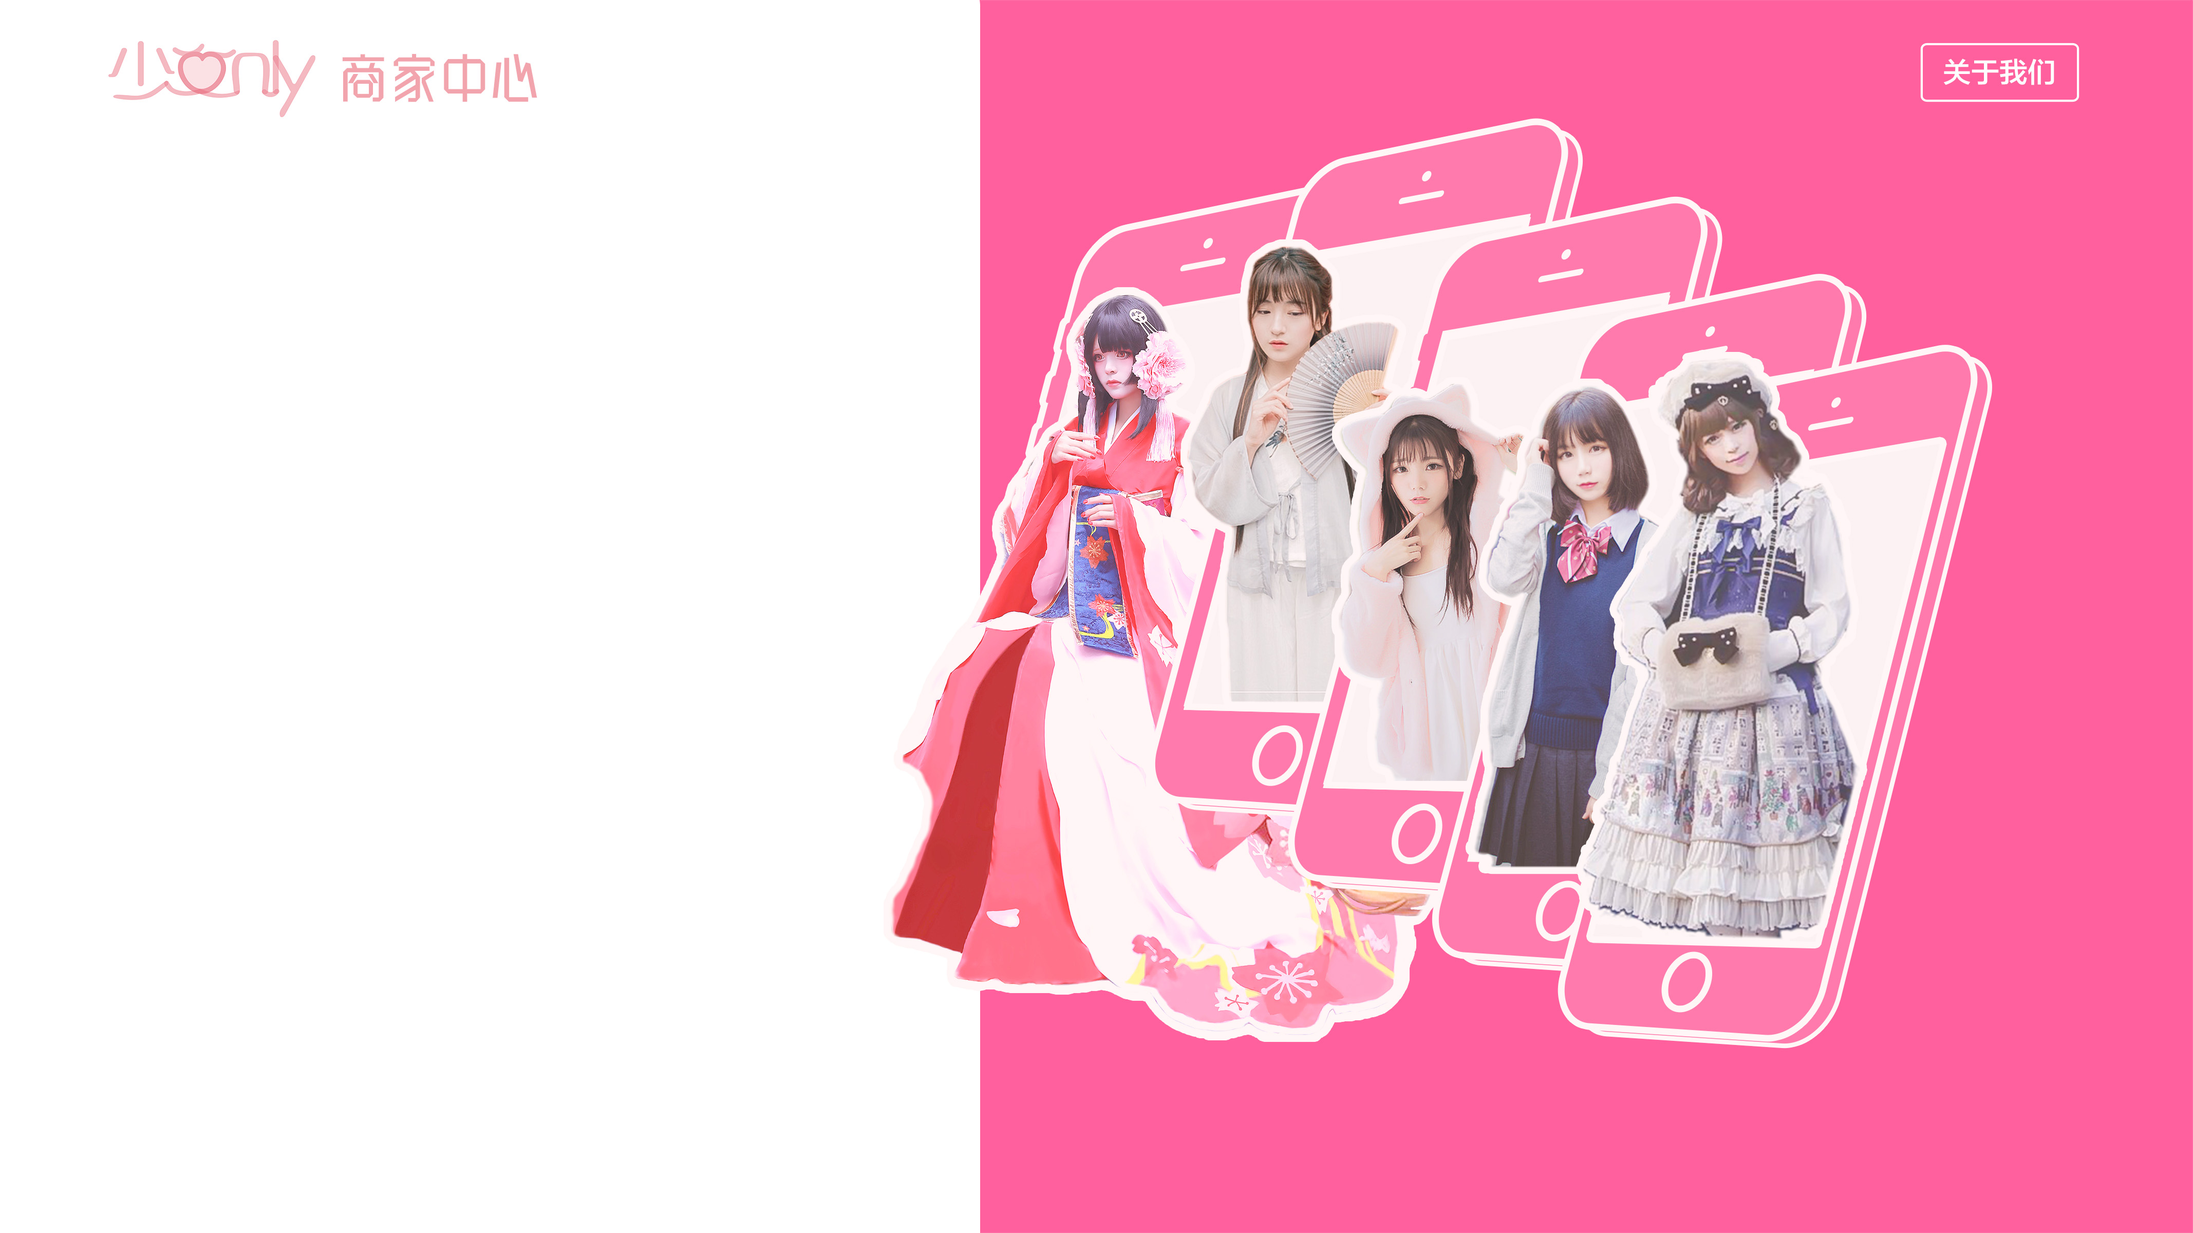
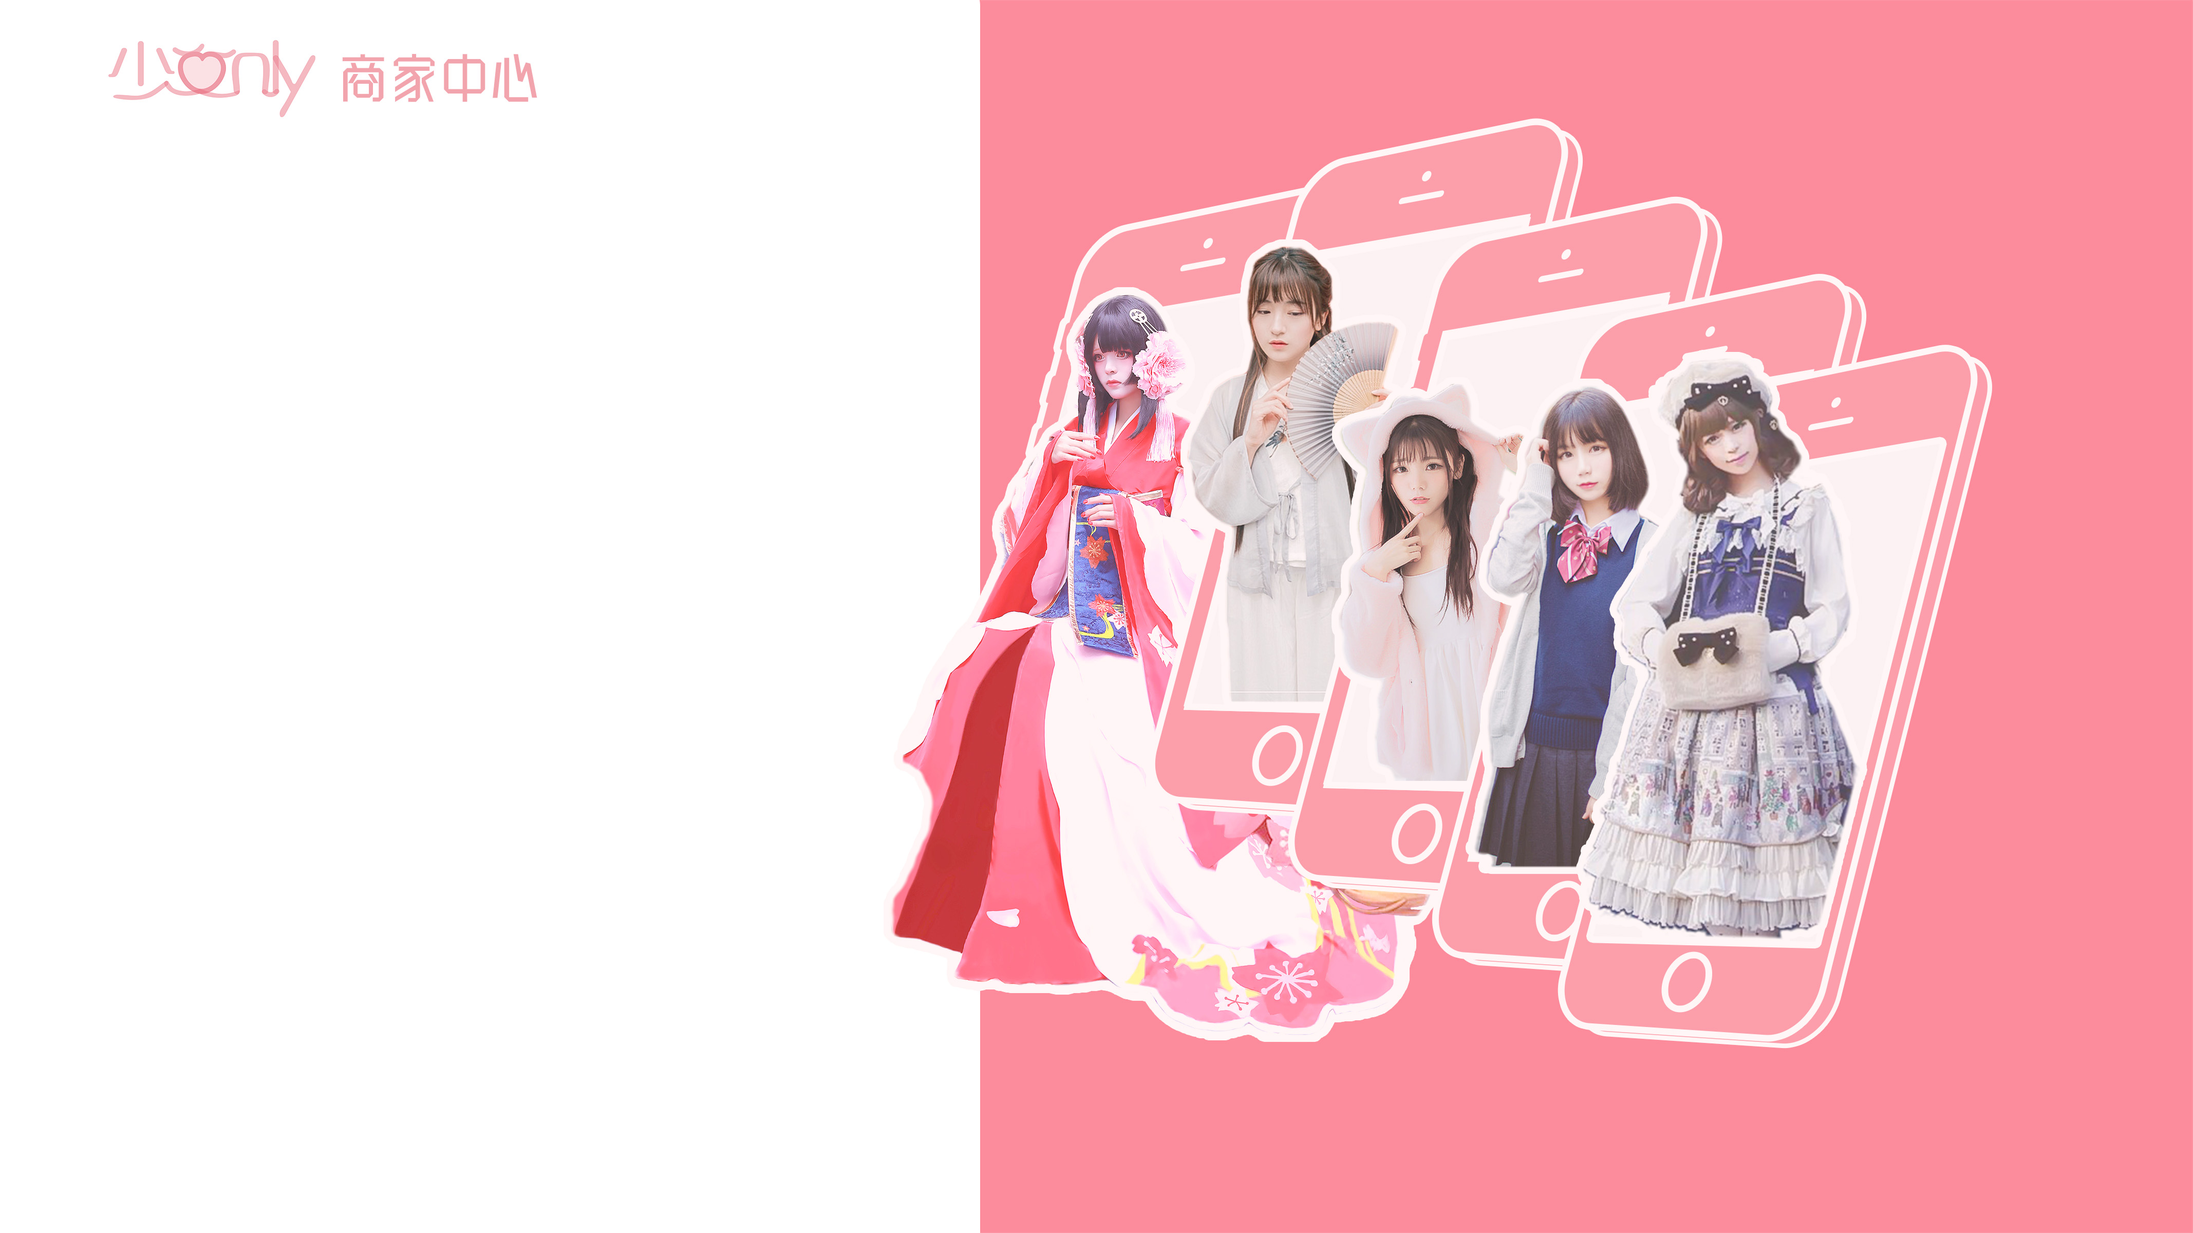
sweetalert和登录注销对接

diff --git a/src/js/welcome.js b/src/js/welcome.js
@@ -38,11 +38,52 @@ function login() {
                  username : username,
                  password_hash: password_hash,
              },
-             success: function(){
-             	window.location.href = "index.html";
+             success: function(resp){
+             	if (resp.message=='success') {
+             		swal({
+                        title:'登录成功！',
+                        type: 'success',
+                        timer:2000,
+                        background:'#fff',
+                        confirmButtonColor: '#fc8c9c',
+                    });
+             		setTimeout("window.location = 'index.html'",2000); 
+             	}
+             	else if (resp.message=='参数不合法') {
+                    swal({
+                        text:'输入不正确，请重新输入!',
+                        title:'登录失败',
+                        type: 'warning',
+                        timer:2000,
+                        background:'#fff',
+                        confirmButtonColor: '#fc8c9c',
+                    });
+             	}
+             	else if (resp.message=='密码错误') {
+                    swal({
+                        text:'密码错误!',
+                        title:'登录失败',
+                        type: 'error',
+                        timer:2000,
+                        background:'#fff',
+                        confirmButtonColor: '#fc8c9c',
+                    });
+             	}
+             	else if (resp.message=='用户名不存在') {
+             		swal({
+                        text:'用户名不存在!',
+                        title:'登录失败',
+                        type: 'warning',
+                        timer:2000,
+                        background:'#fff',
+                        confirmButtonColor: '#fc8c9c',
+                    });
+             	}
              },
          });
 	}); 
 
 	
 }
+
+

diff --git a/src/index.html b/src/index.html
@@ -1,3 +1,4 @@
+
 <!DOCTYPE html>
 <html lang="zh-CN">
     <head>
@@ -8,6 +9,8 @@
         <link href="font-awesome-4.7.0/css/font-awesome.min.css" rel="stylesheet">   
         <!-- Bootstrap -->
         <link href="Bootstrap/css/bootstrap.min.css" rel="stylesheet">
+        <!-- SweetAlert -->
+        <link rel="stylesheet" type="text/css" href="SweetAlert/dist/sweetalert2.min.css">
         <!--自己的样式文件 -->
         <link href="css/demo.css" rel="stylesheet">
         <link href="css/index.css" rel="stylesheet">        
@@ -23,7 +26,7 @@
             <ul class="nav navbar-nav">
                 <li><a href="##"><span><img src="images/password.png" alt=""></span>
                     修改密码</a></li>
-                <li><a href="##"><span><img src="images/logoff.png" alt=""></span>
+                <li><a href="javascript:void(0)" onclick="logout();"><span><img src="images/logoff.png" alt=""></span>
                     退出登录</a></li>
             </ul>
         </div>
@@ -153,8 +156,15 @@
         <!-- 如果要使用Bootstrap的js插件，必须先调入jQuery -->
         <script src="http://libs.baidu.com/jquery/1.9.0/jquery.min.js"></script>
         <!-- 包括所有bootstrap的js插件或者可以根据需要使用的js插件调用　-->
-        <script src="http://maxcdn.bootstrapcdn.com/bootstrap/3.2.0/js/bootstrap.min.js"></script> 
+        <script src="http://maxcdn.bootstrapcdn.com/bootstrap/3.2.0/js/bootstrap.min.js"></script>
+        <!-- SweetAlert -->
+            <script src="SweetAlert/dist/sweetalert2.min.js"></script>
+            <!-- for IE support -->
+            <script src="SweetAlert/lib/es6-promise.min.js"></script>
+        <!-- SweetAlert -->
+        <script src="js/welcome.js"></script> 
         <!-- 自己的js -->
+        <script src="js/demo.js"></script>
         <script src="js/index.js"></script>
     </body>
 </html>

diff --git a/src/demo.html b/src/demo.html
@@ -8,6 +8,8 @@
         <link href="font-awesome-4.7.0/css/font-awesome.min.css" rel="stylesheet">   
         <!-- Bootstrap -->
         <link href="Bootstrap/css/bootstrap.min.css" rel="stylesheet">
+        <!-- SweetAlert -->
+        <link rel="stylesheet" type="text/css" href="SweetAlert/dist/sweetalert2.min.css">
         <!--自己的样式文件 -->
         <link href="css/demo.css" rel="stylesheet">        
         <!-- 以下两个插件用于在IE8以及以下版本浏览器支持HTML5元素和媒体查询，如果不需要用可以移除 -->
@@ -22,7 +24,7 @@
             <ul class="nav navbar-nav">
                 <li><a href="##"><span><img src="images/password.png" alt=""></span>
                     修改密码</a></li>
-                <li><a href="##"><span><img src="images/logoff.png" alt=""></span>
+                <li><a href="javascript:void(0)" onclick="logout();"><span><img src="images/logoff.png" alt=""></span>
                     退出登录</a></li>
             </ul>
         </div>
@@ -78,6 +80,14 @@
         <script src="http://libs.baidu.com/jquery/1.9.0/jquery.min.js"></script>
         <!-- 包括所有bootstrap的js插件或者可以根据需要使用的js插件调用　-->
         <script src="http://maxcdn.bootstrapcdn.com/bootstrap/3.2.0/js/bootstrap.min.js"></script>
+        <!-- SweetAlert -->
+            <script src="SweetAlert/dist/sweetalert2.min.js"></script>
+            <!-- for IE support -->
+            <script src="SweetAlert/lib/es6-promise.min.js"></script>
+        <!-- SweetAlert -->
+        <script src="js/welcome.js"></script>
+        <!-- 自己的js -->
+        <script src="js/demo.js"></script>
         <script src=""></script> 
     </body>
 </html>

diff --git a/src/onsale.html b/src/onsale.html
@@ -8,6 +8,8 @@
         <link href="font-awesome-4.7.0/css/font-awesome.min.css" rel="stylesheet">   
         <!-- Bootstrap -->
         <link href="Bootstrap/css/bootstrap.min.css" rel="stylesheet">
+        <!-- SweetAlert -->
+        <link rel="stylesheet" type="text/css" href="SweetAlert/dist/sweetalert2.min.css">
         <!--自己的样式文件 -->
         <link href="css/demo.css" rel="stylesheet">
         <link href="css/onsale.css" rel="stylesheet">        
@@ -23,7 +25,7 @@
             <ul class="nav navbar-nav">
                 <li><a href="##"><span><img src="images/password.png" alt=""></span>
                     修改密码</a></li>
-                <li><a href="##"><span><img src="images/logoff.png" alt=""></span>
+                <li><a href="javascript:void(0)" onclick="logout();"><span><img src="images/logoff.png" alt=""></span>
                     退出登录</a></li>
             </ul>
         </div>
@@ -256,6 +258,14 @@
         <script src="http://libs.baidu.com/jquery/1.9.0/jquery.min.js"></script>
         <!-- 包括所有bootstrap的js插件或者可以根据需要使用的js插件调用　-->
         <script src="http://maxcdn.bootstrapcdn.com/bootstrap/3.2.0/js/bootstrap.min.js"></script>
+        <!-- SweetAlert -->
+            <script src="SweetAlert/dist/sweetalert2.min.js"></script>
+            <!-- for IE support -->
+            <script src="SweetAlert/lib/es6-promise.min.js"></script>
+        <!-- SweetAlert -->
+        <script src="js/welcome.js"></script>
+        <!-- 自己的js -->
+        <script src="js/demo.js"></script>        
         <script src="js/onsale.js"></script>
     </body>
 </html>

diff --git a/src/sold.html b/src/sold.html
@@ -8,6 +8,8 @@
         <link href="font-awesome-4.7.0/css/font-awesome.min.css" rel="stylesheet">   
         <!-- Bootstrap -->
         <link href="Bootstrap/css/bootstrap.min.css" rel="stylesheet">
+        <!-- SweetAlert -->
+        <link rel="stylesheet" type="text/css" href="SweetAlert/dist/sweetalert2.min.css">
         <!--自己的样式文件 -->
         <link href="css/demo.css" rel="stylesheet">
         <link href="css/sold.css" rel="stylesheet">        
@@ -23,7 +25,7 @@
             <ul class="nav navbar-nav">
                 <li><a href="##"><span><img src="images/password.png" alt=""></span>
                     修改密码</a></li>
-                <li><a href="##"><span><img src="images/logoff.png" alt=""></span>
+                <li><a href="javascript:void(0)" onclick="logout();"><span><img src="images/logoff.png" alt=""></span>
                     退出登录</a></li>
             </ul>
         </div>
@@ -269,6 +271,14 @@
         <script src="http://libs.baidu.com/jquery/1.9.0/jquery.min.js"></script>
         <!-- 包括所有bootstrap的js插件或者可以根据需要使用的js插件调用　-->
         <script src="http://maxcdn.bootstrapcdn.com/bootstrap/3.2.0/js/bootstrap.min.js"></script>
+        <!-- SweetAlert -->
+            <script src="SweetAlert/dist/sweetalert2.min.js"></script>
+            <!-- for IE support -->
+            <script src="SweetAlert/lib/es6-promise.min.js"></script>
+        <!-- SweetAlert -->
+        <script src="js/welcome.js"></script>
+        <!-- 自己的js -->
+        <script src="js/demo.js"></script>       
         <script src="js/saled.js"></script> 
     </body>
 </html>

diff --git a/src/baseinfo.html b/src/baseinfo.html
@@ -8,6 +8,8 @@
         <link href="font-awesome-4.7.0/css/font-awesome.min.css" rel="stylesheet">   
         <!-- Bootstrap -->
         <link href="Bootstrap/css/bootstrap.min.css" rel="stylesheet">
+        <!-- SweetAlert -->
+        <link rel="stylesheet" type="text/css" href="SweetAlert/dist/sweetalert2.min.css">
         <!--自己的样式文件 -->
         <link href="css/demo.css" rel="stylesheet">      
         <link href="css/baseinfo.css" rel="stylesheet">   
@@ -23,7 +25,7 @@
             <ul class="nav navbar-nav">
                 <li><a href="##"><span><img src="images/password.png" alt=""></span>
                     修改密码</a></li>
-                <li><a href="##"><span><img src="images/logoff.png" alt=""></span>
+                <li><a href="javascript:void(0)" onclick="logout();"><span><img src="images/logoff.png" alt=""></span>
                     退出登录</a></li>
             </ul>
         </div>
@@ -97,6 +99,14 @@
         <script src="http://libs.baidu.com/jquery/1.9.0/jquery.min.js"></script>
         <!-- 包括所有bootstrap的js插件或者可以根据需要使用的js插件调用　-->
         <script src="http://maxcdn.bootstrapcdn.com/bootstrap/3.2.0/js/bootstrap.min.js"></script>
+        <!-- SweetAlert -->
+            <script src="SweetAlert/dist/sweetalert2.min.js"></script>
+            <!-- for IE support -->
+            <script src="SweetAlert/lib/es6-promise.min.js"></script>
+        <!-- SweetAlert -->
+        <script src="js/welcome.js"></script>
+        <!-- 自己的js -->
+        <script src="js/demo.js"></script>        
         <script src=""></script> 
     </body>
 </html>

diff --git a/src/authentication.html b/src/authentication.html
@@ -8,6 +8,8 @@
         <link href="font-awesome-4.7.0/css/font-awesome.min.css" rel="stylesheet">   
         <!-- Bootstrap -->
         <link href="Bootstrap/css/bootstrap.min.css" rel="stylesheet">
+        <!-- SweetAlert -->
+        <link rel="stylesheet" type="text/css" href="SweetAlert/dist/sweetalert2.min.css">
         <!--自己的样式文件 -->
         <link href="css/demo.css" rel="stylesheet">
         <link href="css/authentication.css" rel="stylesheet">        
@@ -23,7 +25,7 @@
             <ul class="nav navbar-nav">
                 <li><a href="##"><span><img src="images/password.png" alt=""></span>
                     修改密码</a></li>
-                <li><a href="##"><span><img src="images/logoff.png" alt=""></span>
+                <li><a href="javascript:void(0)" onclick="logout();"><span><img src="images/logoff.png" alt=""></span>
                     退出登录</a></li>
             </ul>
         </div>
@@ -103,6 +105,14 @@
         <script src="http://libs.baidu.com/jquery/1.9.0/jquery.min.js"></script>
         <!-- 包括所有bootstrap的js插件或者可以根据需要使用的js插件调用　-->
         <script src="http://maxcdn.bootstrapcdn.com/bootstrap/3.2.0/js/bootstrap.min.js"></script>
+        <!-- SweetAlert -->
+            <script src="SweetAlert/dist/sweetalert2.min.js"></script>
+            <!-- for IE support -->
+            <script src="SweetAlert/lib/es6-promise.min.js"></script>
+        <!-- SweetAlert -->
+        <script src="js/welcome.js"></script>
+        <!-- 自己的js -->
+        <script src="js/demo.js"></script>
         <script src=""></script> 
     </body>
 </html>

diff --git a/src/introduce.html b/src/introduce.html
@@ -8,6 +8,8 @@
         <link href="font-awesome-4.7.0/css/font-awesome.min.css" rel="stylesheet">   
         <!-- Bootstrap -->
         <link href="Bootstrap/css/bootstrap.min.css" rel="stylesheet">
+        <!-- SweetAlert -->
+        <link rel="stylesheet" type="text/css" href="SweetAlert/dist/sweetalert2.min.css">
         <!--自己的样式文件 -->
         <link href="css/demo.css" rel="stylesheet">
         <link href="css/introduce.css" rel="stylesheet">        
@@ -23,7 +25,7 @@
             <ul class="nav navbar-nav">
                 <li><a href="##"><span><img src="images/password.png" alt=""></span>
                     修改密码</a></li>
-                <li><a href="##"><span><img src="images/logoff.png" alt=""></span>
+                <li><a href="javascript:void(0)" onclick="logout();"><span><img src="images/logoff.png" alt=""></span>
                     退出登录</a></li>
             </ul>
         </div>
@@ -261,6 +263,14 @@
         <script src="Bootstrap/js/jquery-3.1.1.min.js"></script>
         <!-- 包括所有bootstrap的js插件或者可以根据需要使用的js插件调用　-->
         <script src="Bootstrap/js/bootstrap.min.js"></script>
+        <!-- SweetAlert -->
+            <script src="SweetAlert/dist/sweetalert2.min.js"></script>
+            <!-- for IE support -->
+            <script src="SweetAlert/lib/es6-promise.min.js"></script>
+        <!-- SweetAlert -->
+        <script src="js/welcome.js"></script>
+        <!-- 自己的js -->
+        <script src="js/demo.js"></script>        
         <script src="js/introduce.js"></script> 
     </body>
 </html>

diff --git a/src/logistics.html b/src/logistics.html
@@ -8,6 +8,8 @@
         <link href="font-awesome-4.7.0/css/font-awesome.min.css" rel="stylesheet">   
         <!-- Bootstrap -->
         <link href="Bootstrap/css/bootstrap.min.css" rel="stylesheet">
+        <!-- SweetAlert -->
+        <link rel="stylesheet" type="text/css" href="SweetAlert/dist/sweetalert2.min.css">
         <!--自己的样式文件 -->
         <link href="css/demo.css" rel="stylesheet">
         <link href="css/logistics.css" rel="stylesheet">         
@@ -28,7 +30,7 @@
                     </a>
                 </li>
                 <li>
-                    <a href="##">
+                    <a href="javascript:void(0)" onclick="logout();">
                         <span><img src="images/logoff.png" alt=""></span>
                         退出登录
                     </a>
@@ -277,6 +279,14 @@
         <script src="http://libs.baidu.com/jquery/1.9.0/jquery.min.js"></script>
         <!-- 包括所有bootstrap的js插件或者可以根据需要使用的js插件调用　-->
         <script src="http://maxcdn.bootstrapcdn.com/bootstrap/3.2.0/js/bootstrap.min.js"></script>
+        <!-- SweetAlert -->
+            <script src="SweetAlert/dist/sweetalert2.min.js"></script>
+            <!-- for IE support -->
+            <script src="SweetAlert/lib/es6-promise.min.js"></script>
+        <!-- SweetAlert -->
+        <script src="js/welcome.js"></script>
+        <!-- 自己的js -->
+        <script src="js/demo.js"></script>        
         <script src=""></script> 
     </body>
 </html>

diff --git a/src/welcome.html b/src/welcome.html
@@ -8,6 +8,8 @@
         <link href="font-awesome-4.7.0/css/font-awesome.min.css" rel="stylesheet">   
         <!-- Bootstrap -->
         <link href="Bootstrap/css/bootstrap.min.css" rel="stylesheet">
+        <!-- SweetAlert -->
+        <link rel="stylesheet" type="text/css" href="SweetAlert/dist/sweetalert2.min.css">
         <!--自己的样式文件 -->
         <link href="css/welcome.css" rel="stylesheet">        
         <!-- 以下两个插件用于在IE8以及以下版本浏览器支持HTML5元素和媒体查询，如果不需要用可以移除 -->
@@ -56,6 +58,11 @@
         <script src="http://libs.baidu.com/jquery/1.9.0/jquery.min.js"></script>
         <!-- 包括所有bootstrap的js插件或者可以根据需要使用的js插件调用　-->
         <script src="http://maxcdn.bootstrapcdn.com/bootstrap/3.2.0/js/bootstrap.min.js"></script>
+        <!-- SweetAlert -->
+            <script src="SweetAlert/dist/sweetalert2.min.js"></script>
+            <!-- for IE support -->
+            <script src="SweetAlert/lib/es6-promise.min.js"></script>
+        <!-- SweetAlert -->
         <script src="js/welcome.js"></script> 
     </body>
 </html>

diff --git a/src/css/welcome.css b/src/css/welcome.css
@@ -72,7 +72,7 @@ input:focus{
 	font-size: 20px;
 	border: 0;
 	border-radius: 8px;
-	background-color: #ff5f9b;
+	background-color: #fc8c9c;
 	padding-top: 15px;
 	padding-bottom: 15px;
 	font-weight: bold;
@@ -99,7 +99,7 @@ input:focus{
 }
 
 #tab-list>li>a{
-	background-color: #ff5f9b;
+	background-color: #fc8c9c;
 	color: #fff;
 	margin-right: 0;
 	border: 1px solid #ee8e9c;
@@ -112,7 +112,7 @@ input:focus{
 
 #tab-list>.active>a{
 	background-color: #fff9fd;
-	color: #ff619c;
+	color: #fc8c9c;
 	transform: scale(1,1.1);
 	-ms-transform: scale(1,1.1);	/* IE 9 */
 	-webkit-transform: scale(1,1.1);	/* Safari 和 Chrome */
